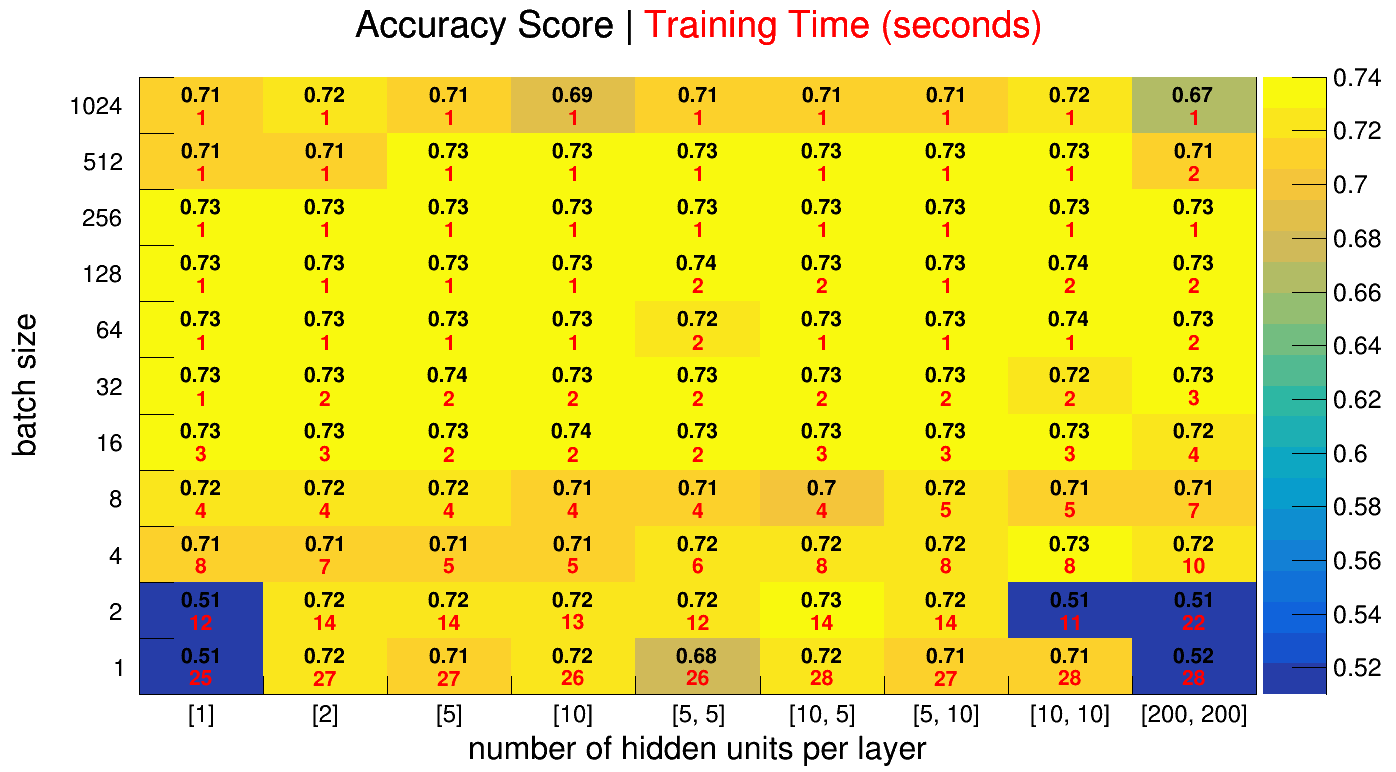
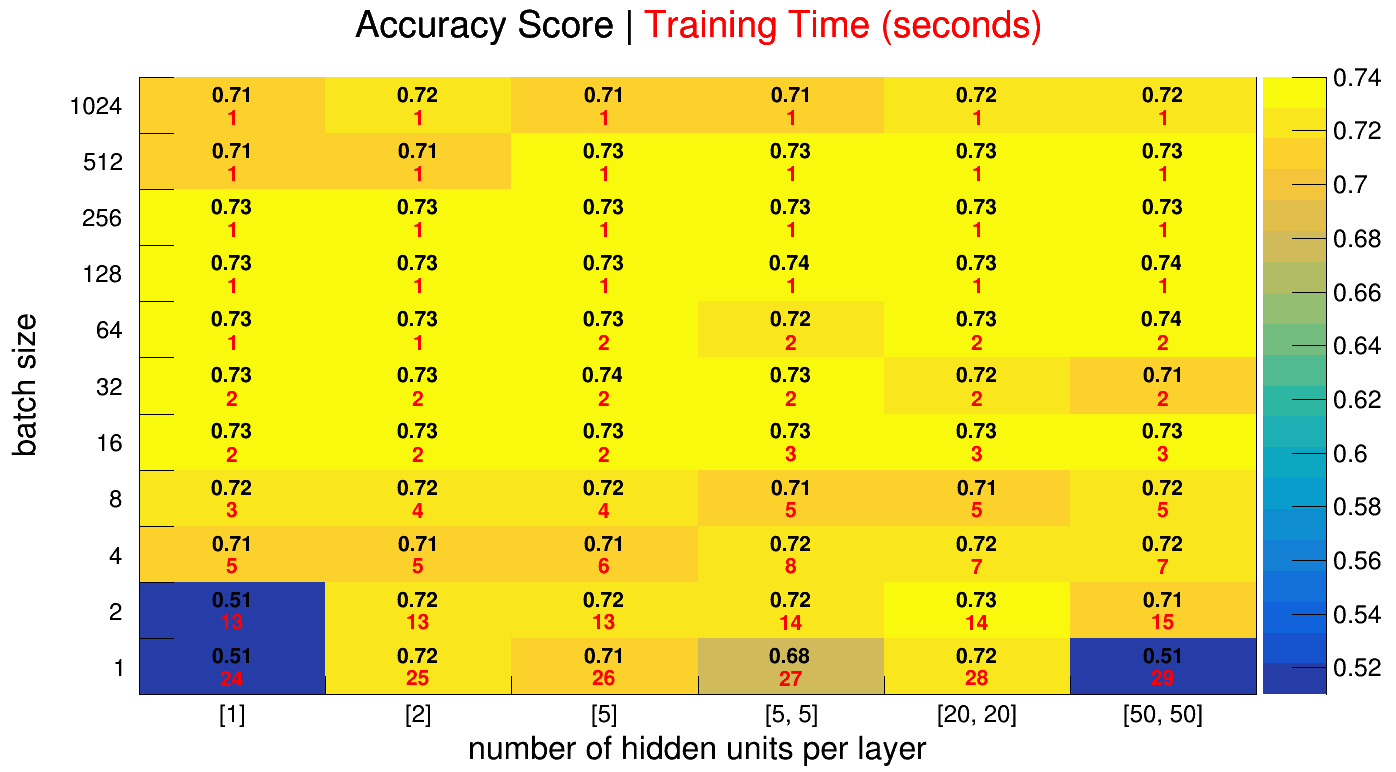
Update batch size optimization plot

diff --git a/modules/plot_hist2d.py b/modules/plot_hist2d.py
@@ -9,11 +9,11 @@ from ROOT import gROOT, TCanvas, TH1F, TH2F
 
 gROOT.SetBatch(True)
 
-timing = [25.431588, 26.897939, 26.796903, 26.496365, 25.870068, 28.00498, 27.415048, 27.883523, 28.471792, 11.837657, 13.906908, 13.91895, 13.11469, 12.009645, 14.420091, 14.410136, 10.762475, 22.237426, 7.745069, 7.478949, 5.469388, 5.340828, 5.563038, 8.192999, 8.092446, 7.739891, 9.885831, 3.689973, 4.315379, 4.488952, 4.49597, 4.411371, 4.306656, 4.76333, 4.652557, 6.712543, 2.784651, 2.691034, 2.481928, 2.031466, 2.100144, 2.92487, 3.040624, 2.696857, 3.816461, 1.371298, 1.932289, 1.98239, 2.016415, 2.018611, 1.932864, 2.134436, 2.224911, 2.929641, 1.101269, 1.194995, 1.104498, 1.098024, 1.824869, 1.473829, 1.441535, 1.224806, 2.134142, 0.99364, 1.353517, 1.173817, 1.48317, 1.522952, 1.607448, 1.484371, 1.595986, 1.770029, 1.095776, 1.22235, 1.258162, 1.020105, 1.191887, 1.093623, 1.16393, 1.098436, 1.228443, 1.037958, 1.032545, 1.108806, 1.030508, 1.169585, 1.310701, 1.109929, 1.124568, 1.589484, 1.136748, 0.922036, 0.959491, 1.113578, 1.054682, 1.080956, 1.043033, 1.095827, 1.100615]
+timing = [24.410439, 24.910075, 25.664182, 26.962138, 27.590327, 29.349585, 13.150066, 13.434365, 13.265842, 13.950145, 13.947584, 14.834151, 4.931589, 5.332372, 6.403859, 7.547976, 6.513756, 7.010882, 3.374669, 4.471188, 4.31369, 4.542263, 4.602837, 4.788853, 1.891384, 1.940521, 2.134539, 2.522599, 2.868164, 2.718478, 1.701724, 1.528077, 1.758688, 2.227819, 1.94363, 2.358413, 1.134119, 1.103618, 1.539358, 1.755239, 1.777297, 1.883475, 1.098762, 1.200488, 1.345682, 1.199053, 1.210265, 1.404781, 1.244428, 1.123855, 1.288538, 1.161341, 1.164904, 1.307494, 0.964987, 1.01816, 1.015437, 1.152123, 1.114411, 1.185826, 1.147678, 0.969598, 0.937501, 1.062772, 0.964091, 1.040038]
 
-test_accuracy = [0.50962943, 0.71603137, 0.71364057, 0.71563292, 0.6800372, 0.71656263, 0.71297652, 0.71271086, 0.52357548, 0.50962943, 0.71895337, 0.71855491, 0.71589851, 0.71722674, 0.73210251, 0.71935183, 0.50962943, 0.50962943, 0.71032012, 0.71324211, 0.71138263, 0.71191394, 0.71921903, 0.71868771, 0.71696109, 0.73050869, 0.71948469, 0.72001594, 0.71988314, 0.72253948, 0.71443748, 0.71085137, 0.70487446, 0.72426617, 0.70872629, 0.70606989, 0.73050869, 0.73064154, 0.73050869, 0.73714972, 0.73037589, 0.72971177, 0.7283836, 0.73316509, 0.72014874, 0.72771949, 0.7283836, 0.73502457, 0.73462611, 0.73050869, 0.73183692, 0.73263383, 0.72014874, 0.73329794, 0.7313056, 0.72984463, 0.7313056, 0.73250097, 0.72240669, 0.72692257, 0.73024309, 0.73728251, 0.73475891, 0.73329794, 0.73449332, 0.73303229, 0.73449332, 0.73555583, 0.73449332, 0.73196971, 0.73635274, 0.73343074, 0.72718823, 0.73157126, 0.7285164, 0.73011023, 0.73050869, 0.72811794, 0.72944611, 0.73157126, 0.72798514, 0.7071324, 0.70939034, 0.72612566, 0.7285164, 0.72811794, 0.72586, 0.7311728, 0.73011023, 0.70753086, 0.70606989, 0.71550006, 0.71430469, 0.68960023, 0.7121796, 0.71151549, 0.71430469, 0.72333646, 0.6748572]
+test_accuracy = [0.50962943, 0.71603137, 0.71364057, 0.6800372, 0.71895337, 0.50962943, 0.50962943, 0.71895337, 0.71855491, 0.71722674, 0.73250097, 0.70593703, 0.71032012, 0.71324211, 0.71138263, 0.71921903, 0.71616417, 0.71868771, 0.72001594, 0.71988314, 0.72253948, 0.71085137, 0.71032012, 0.72214103, 0.73050869, 0.73064154, 0.73050869, 0.73037589, 0.7336964, 0.72957897, 0.72771949, 0.7283836, 0.73502457, 0.73050869, 0.71696109, 0.71390623, 0.7313056, 0.72984463, 0.7313056, 0.72240669, 0.73436046, 0.73874354, 0.73329794, 0.73449332, 0.73303229, 0.73555583, 0.73409486, 0.74086863, 0.72718823, 0.73157126, 0.7285164, 0.73050869, 0.73037589, 0.73462611, 0.7071324, 0.70939034, 0.72612566, 0.72811794, 0.73050869, 0.72732103, 0.70606989, 0.71550006, 0.71430469, 0.7121796, 0.72214103, 0.71855491]
 
-xl = ['[1]', '[2]', '[5]', '[10]', '[5, 5]', '[10, 5]', '[5, 10]', '[10, 10]', '[200, 200]']
+xl = ['[1]', '[2]', '[5]', '[5, 5]', '[20, 20]', '[50, 50]']
 yl = ['1', '2', '4', '8', '16', '32', '64', '128', '256', '512', '1024']
 
 nx = len(xl)

diff --git a/modules/batch_size_optimize.py b/modules/batch_size_optimize.py
@@ -41,10 +41,10 @@ def shuffle_split(x_data, y_data):
 
 
 def grid_search():
-    batch_size = [1, 2, 5, 10, 50, 100, 1000]
-    hidden_units = [[1], [2], [5], [10], [5, 5], [10, 5], [5, 10], [10, 10]]
+    batch_size = [1, 2, 4, 8, 16, 32, 64, 128, 256, 512, 1024]
+    hidden_units = [[1], [2], [5], [5, 5], [20, 20], [50, 50]]
     param_grid = {'batch_size': batch_size, 'hidden_units': hidden_units}
-    return list(ParameterGrid(param_grid))
+    return ParameterGrid(param_grid)
 
 
 def main(x_data, y_data):
